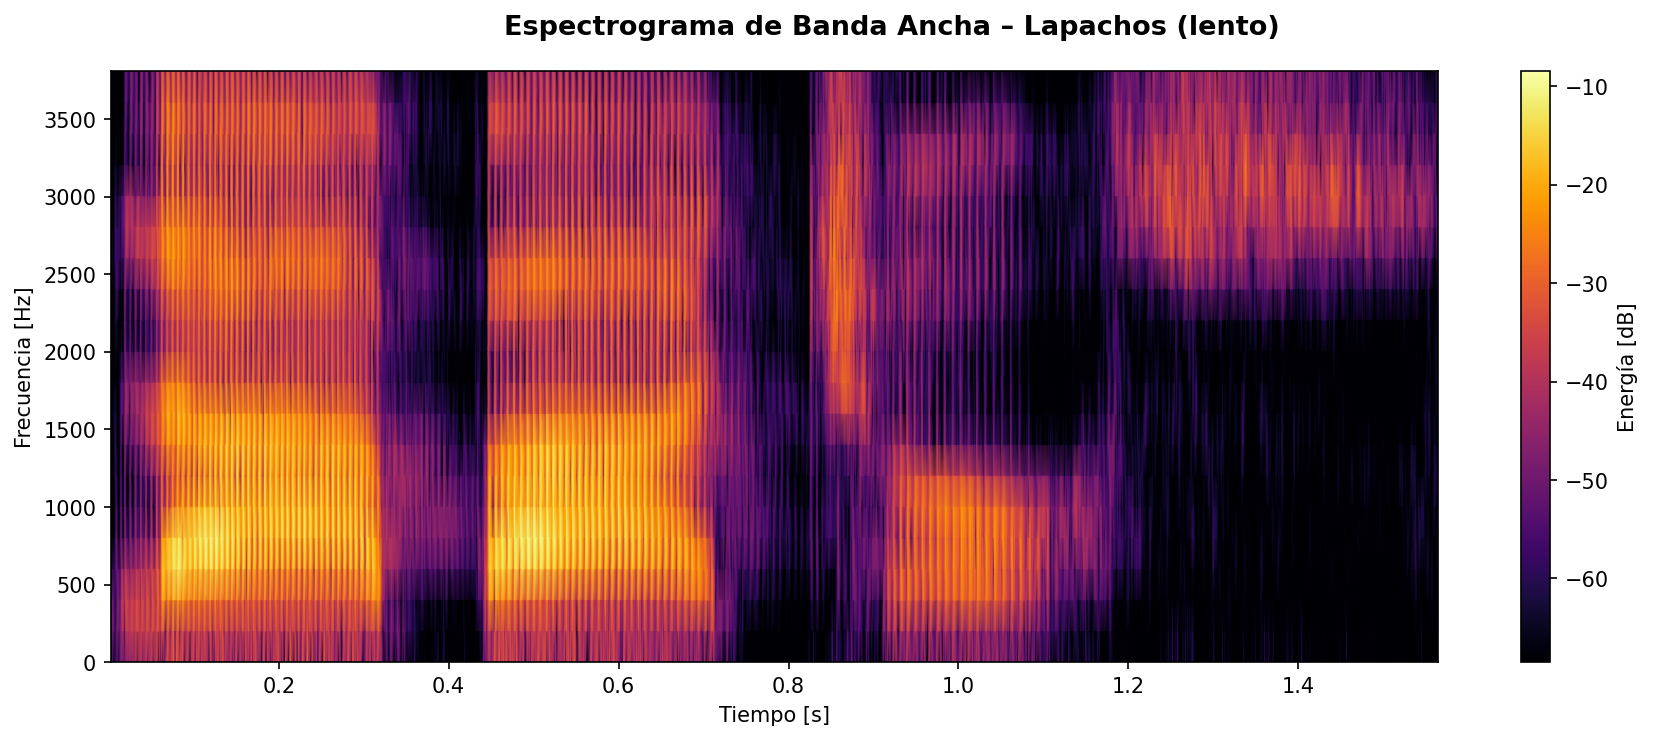
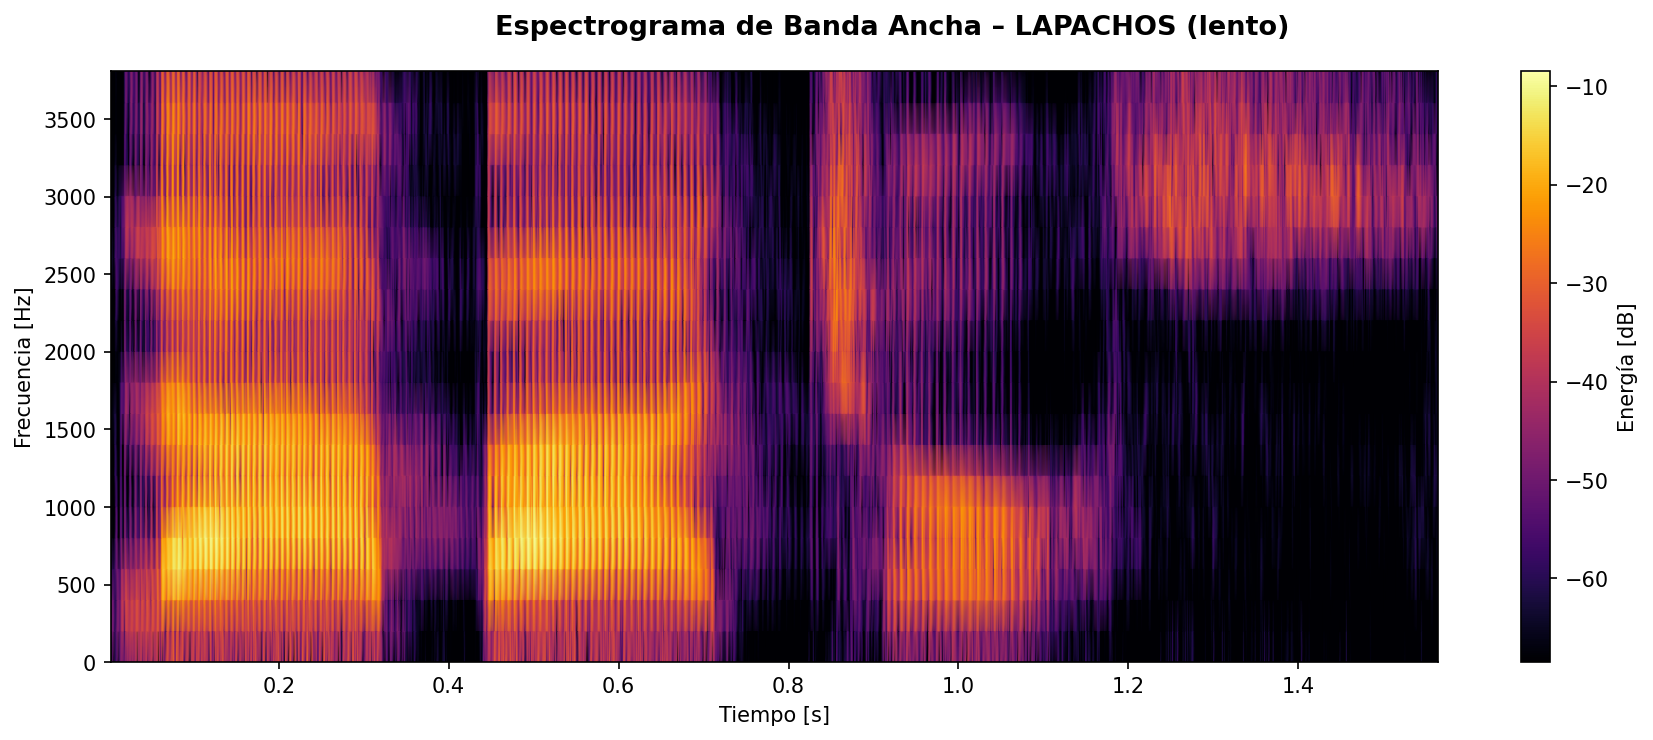
cambio minimo en los espectogramasde las palabras completas

Changed region(s): [[0.2777, 0.0, 0.7713, 0.0622]]

diff --git a/TP2/Codigos/espectrograma.py b/TP2/Codigos/espectrograma.py
@@ -99,9 +99,9 @@ def plot_espectrograma(archivo, tipo, nombre, rango_t=None):
     cbar.set_label("Energía [dB]")
 
     plt.tight_layout()
-    # plt.savefig(f"espectrograma_{tipo}_"+ nombre +".png", dpi=150, bbox_inches="tight")
+    plt.savefig(f"espectrograma_{tipo}_"+ nombre +".png", dpi=150, bbox_inches="tight")
     # plt.savefig(f"espectrograma_{tipo}_"+ nombre + "[lento]" +".png", dpi=150, bbox_inches="tight")
-    plt.savefig(f"espectrograma_{tipo}_"+ nombre + "[rapido]" +".png", dpi=150, bbox_inches="tight")
+    # plt.savefig(f"espectrograma_{tipo}_"+ nombre + "[rapido]" +".png", dpi=150, bbox_inches="tight")
     plt.show()
     print(f"[OK] Guardado: espectrograma_{tipo}_"+ nombre +".png")
     print(f"     fs = {fs} Hz  |  nperseg = {nperseg} muestras "
@@ -121,10 +121,10 @@ VOCALES_RAPIDA = [
 ]
 
 if __name__ == "__main__":
-    # plot_espectrograma("lapachos_lento.wav",  "angosta", "Lapachos (lento)")
-    # plot_espectrograma("lapachos_lento.wav",  "ancha",   "Lapachos (lento)")
-    # plot_espectrograma("lapachos_rapido.wav", "angosta", "Lapachos (rápido)")
-    # plot_espectrograma("lapachos_rapido.wav", "ancha",   "Lapachos (rápido)")
+    plot_espectrograma("lapachos_lento.wav",  "angosta", "LAPACHOS (lento)")
+    plot_espectrograma("lapachos_lento.wav",  "ancha",   "LAPACHOS (lento)")
+    plot_espectrograma("lapachos_rapido.wav", "angosta", "LAPACHOS (rápido)")
+    plot_espectrograma("lapachos_rapido.wav", "ancha",   "LAPACHOS (rápido)")
 
     # Ejemplo con segmento y nombre descriptivo
     # plot_espectrograma("lapachos_lento.wav", "angosta", "Vocal [a]", rango_t=[0.5, 1.2])
@@ -145,5 +145,5 @@ if __name__ == "__main__":
     # plot_espectrograma("lapachos_rapido.wav", "angosta", VOCALES_RAPIDA[1]["nombre"], rango_t=[VOCALES_RAPIDA[1]["t_ini"], VOCALES_RAPIDA[1]["t_fin"]])
     # plot_espectrograma("lapachos_rapido.wav", "ancha", VOCALES_RAPIDA[1]["nombre"], rango_t=[VOCALES_RAPIDA[1]["t_ini"], VOCALES_RAPIDA[1]["t_fin"]])
 
-    plot_espectrograma("lapachos_rapido.wav", "angosta", VOCALES_RAPIDA[2]["nombre"], rango_t=[VOCALES_RAPIDA[2]["t_ini"], VOCALES_RAPIDA[2]["t_fin"]])
-    plot_espectrograma("lapachos_rapido.wav", "ancha", VOCALES_RAPIDA[2]["nombre"], rango_t=[VOCALES_RAPIDA[2]["t_ini"], VOCALES_RAPIDA[2]["t_fin"]])
+    # plot_espectrograma("lapachos_rapido.wav", "angosta", VOCALES_RAPIDA[2]["nombre"], rango_t=[VOCALES_RAPIDA[2]["t_ini"], VOCALES_RAPIDA[2]["t_fin"]])
+    # plot_espectrograma("lapachos_rapido.wav", "ancha", VOCALES_RAPIDA[2]["nombre"], rango_t=[VOCALES_RAPIDA[2]["t_ini"], VOCALES_RAPIDA[2]["t_fin"]])
